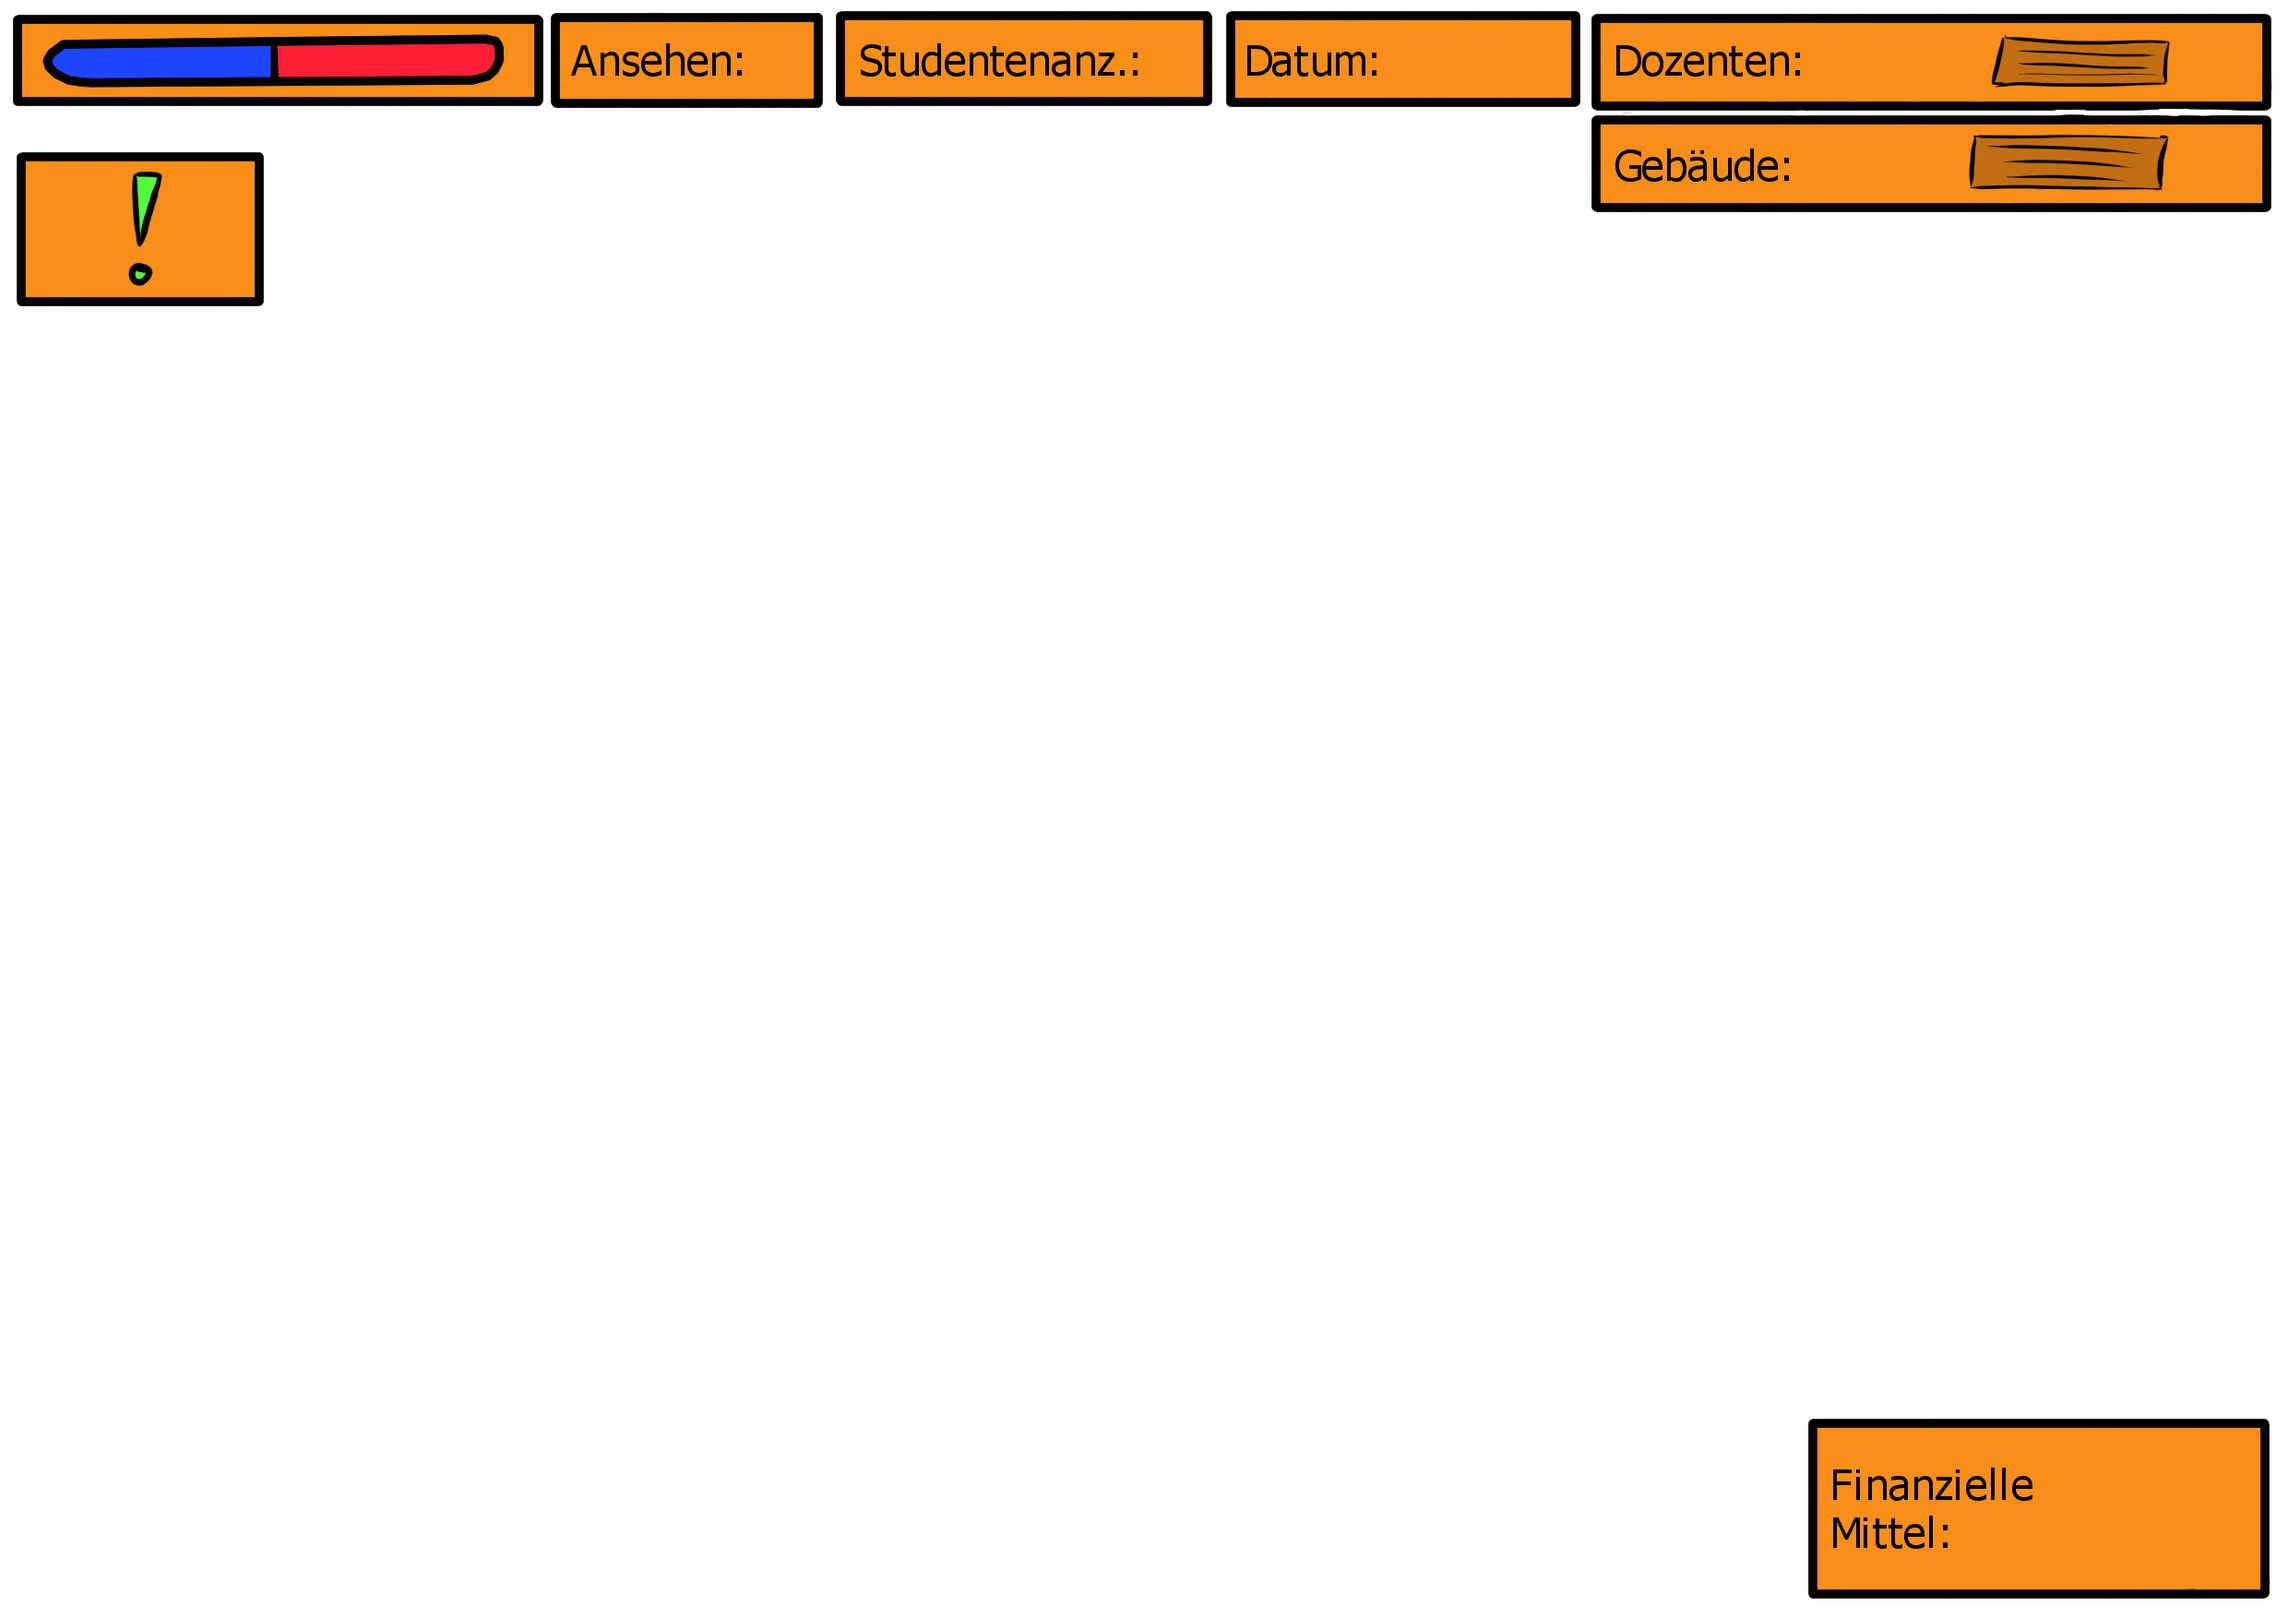
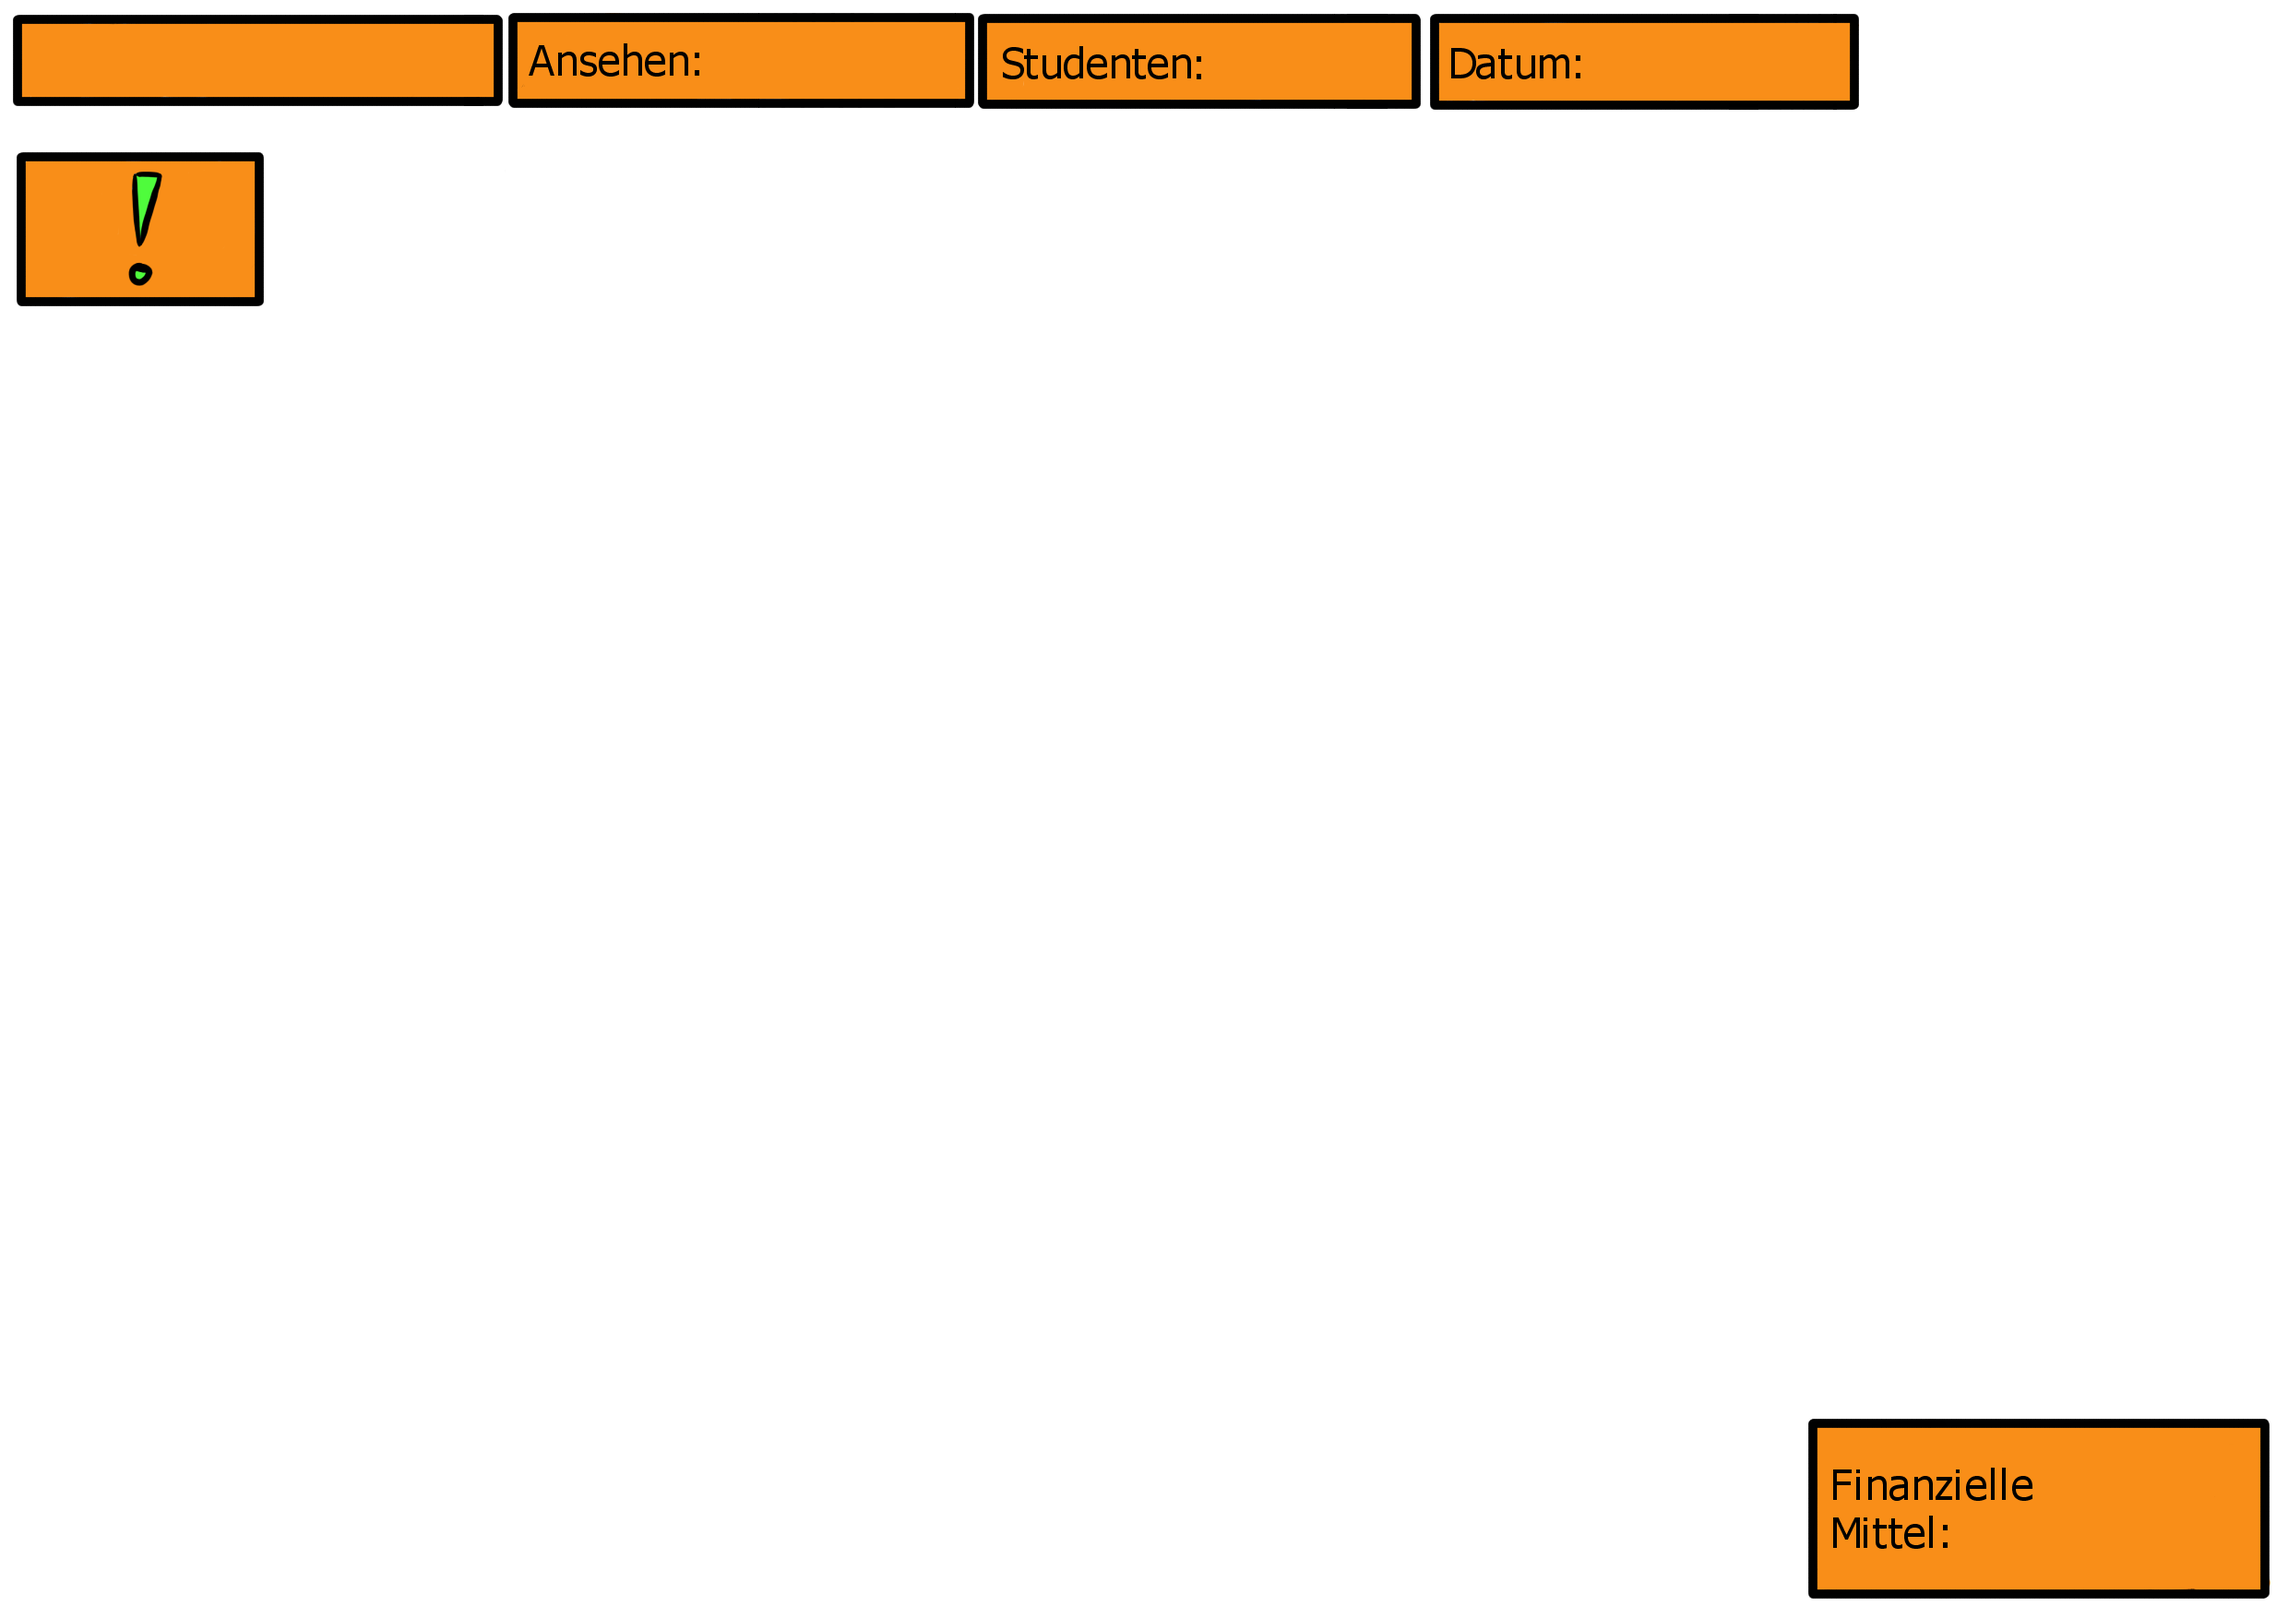
UI Fix

Changed region(s): [[0.3415, 0.0, 0.9935, 0.1539], [0.0, 0.0, 0.3105, 0.0616]]

diff --git a/Untitled Bauhaus Game/Assets/Scripts/BaumenuDetail.cs b/Untitled Bauhaus Game/Assets/Scripts/BaumenuDetail.cs
@@ -20,6 +20,7 @@ public class BaumenuDetail : MonoBehaviour
 	public Text buildingPriceText;
 	public Text buildingTeacherText;
 	public Text buildingStudentText;
+	public Text buildingStilText;
 
 	public Image buildingImage;
 
